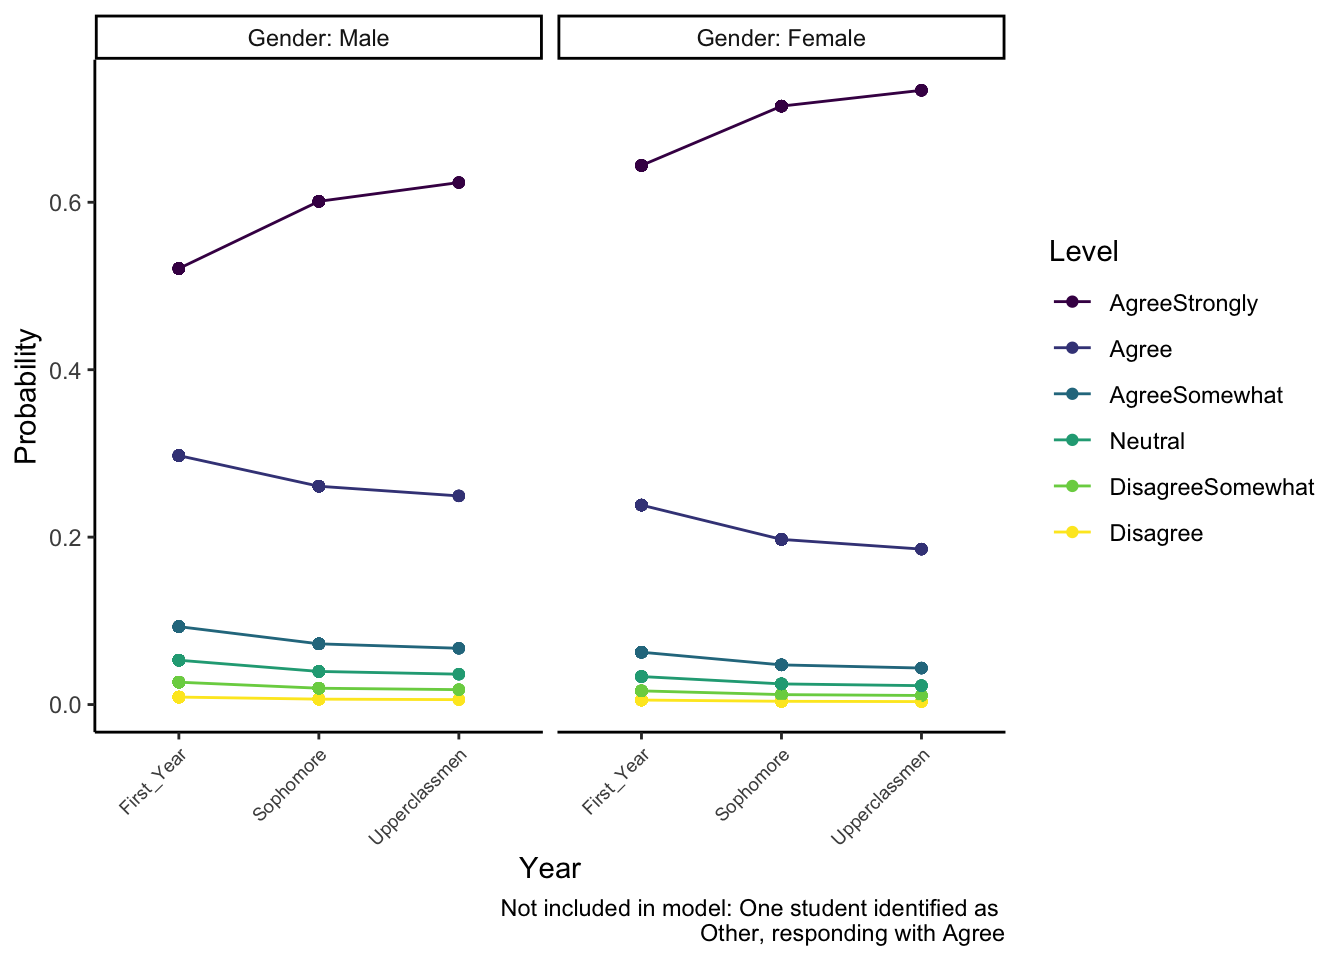
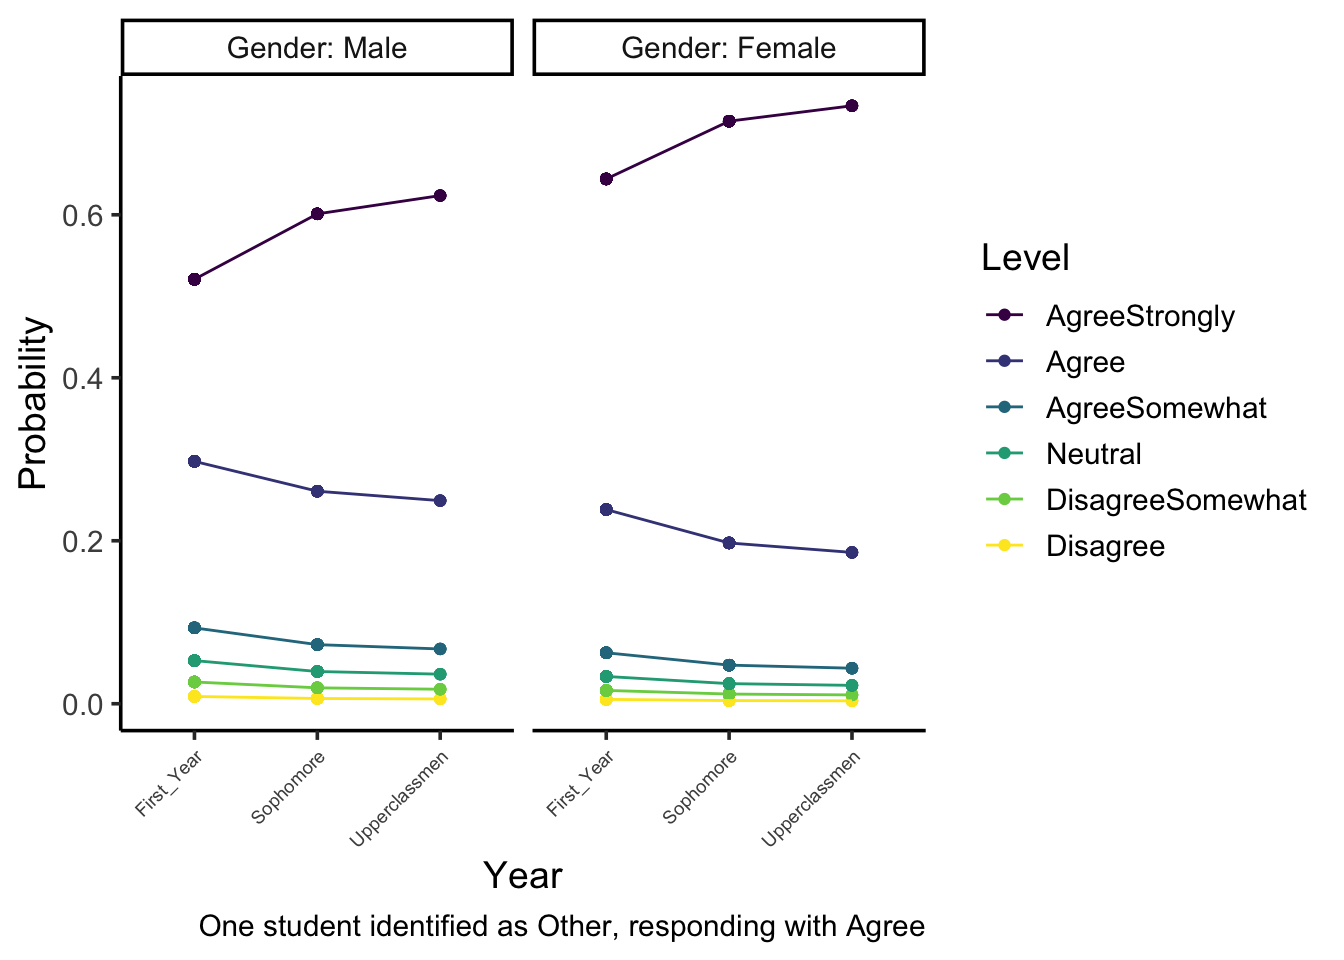
slight changes to fellowship poster

diff --git a/Fellowship_Poster/Fellowship_Poster.html b/Fellowship_Poster/Fellowship_Poster.html
@@ -323,7 +323,7 @@ font-size: 20pt;
 </ul></li>
 <li><p>Likert scale data is best analyzed and interpreted through visualizations rather than mean score of responses</p></li>
 </ul>
-<p><img src="Fellowship_Poster_files/figure-html/unnamed-chunk-1-1.png" width="850px" style="display: block; margin: auto;" /></p>
+<p><img src="Fellowship_Poster_files/figure-html/unnamed-chunk-1-1.png" width="925px" style="display: block; margin: auto;" /></p>
 <ul>
 <li><p>The mean of both data sets is the same (4 points, or Neutral) but the distributions are very different</p></li>
 <li><p>Using averages fails to communicate what was actually reported by participants, illustrating the danger of using the averages of Likert Scale data</p></li>
@@ -418,7 +418,7 @@ Upperclassmen
 </tr>
 </tbody>
 </table>
-<p><img src="Fellowship_Poster_files/figure-html/unnamed-chunk-11-1.png" width="750px" style="display: block; margin: auto;" /></p>
+<p><img src="Fellowship_Poster_files/figure-html/unnamed-chunk-11-1.png" width="800px" style="display: block; margin: auto;" /></p>
 <ul>
 <li>This model predicts responses for only one professor and course, but could be expanded to quantify systematic biases in student evaluations using other predictors such as professor gender, race and ethnicity, and course type (Diversity, Arts, Humanities, STEM).</li>
 </ul>
